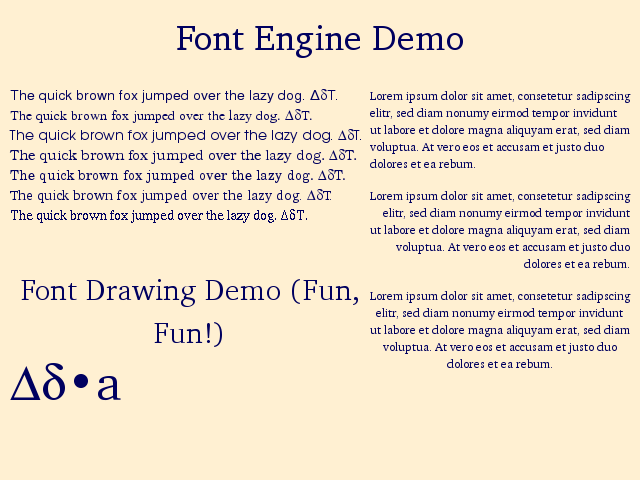
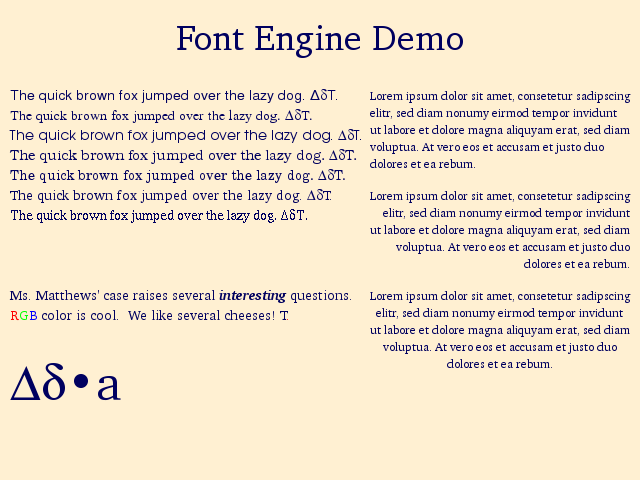
Updated graphic to demo multi-styled paragraphs.
git-svn-id: https://imlsrc.dartmouth.edu/svn/public/halyard/trunk@27203 b24aca02-f418-0410-9c49-835e4aa915c3

Changed region(s): [[0.0, 0.5625, 0.5625, 0.7188]]

diff --git a/Common/fonttools/pngtest.cpp b/Common/fonttools/pngtest.cpp
@@ -29,6 +29,19 @@ FamilyDatabase *gFonts;
 #define SYMBOL_FACE ("Standard Symbols L")
 #define DINGBAT_FACE ("Dingbats")
 
+void show_with_style_info(const wchar_t *inText,
+			  const StyleInformation &inStyleInfo,
+			  Point inPos, Distance inLength,
+			  Justification inJustification)
+{
+    // Draw our text.
+    size_t len = wcslen(inText);
+    StyledTextSpan span(StyledCharIterator(inText, inStyleInfo.begin()),
+			StyledCharIterator(inText + len, inStyleInfo.end()));
+    TextRenderingEngine engine(span, inPos, inLength, inJustification, gImage);
+    engine.RenderText();
+}
+
 void show(const wchar_t *inText, const Style &inStyle,
 	  Point inPos, Distance inLength, Justification inJustification)
 {
@@ -38,10 +51,7 @@ void show(const wchar_t *inText, const Style &inStyle,
     styleInfo.EndStyleAt(len);
 
     // Draw our text.
-    StyledTextSpan span(StyledCharIterator(inText, styleInfo.begin()),
-			StyledCharIterator(inText + len, styleInfo.end()));
-    TextRenderingEngine engine(span, inPos, inLength, inJustification, gImage);
-    engine.RenderText();
+    show_with_style_info(inText, styleInfo, inPos, inLength, inJustification);
 }
 
 int main (int argc, char **argv) {
@@ -87,8 +97,29 @@ int main (int argc, char **argv) {
 		 Point(10, 100 + fi * 20), 360, kLeftJustification);
 	}
 
-	show(L"Font Drawing Demo (Fun, Fun!)", Style(baseStyle).SetSize(30),
-	     Point(10, 300), 360, kCenterJustification);
+	// Do an elaborate, multi-styled paragraph.
+	const wchar_t *para = (L"Ms. Matthews' case raises several "
+			       "interesting questions.  RGB color is cool.  "
+			       "We like several cheeses! T.");
+	Style para_style(baseStyle);
+	para_style.SetSize(14);
+	Style bold_italic_para_style(para_style);
+	bold_italic_para_style.SetFaceStyle(kBoldItalicFaceStyle);
+	StyleInformation styleInfo(para_style);
+	styleInfo.ChangeStyleAt(34, bold_italic_para_style);
+	styleInfo.ChangeStyleAt(45, para_style);
+	styleInfo.ChangeStyleAt(58,
+				Style(para_style).SetColor(Color(255, 0, 0)));
+	styleInfo.ChangeStyleAt(59,
+				Style(para_style).SetColor(Color(0, 255, 0)));
+	styleInfo.ChangeStyleAt(60,
+				Style(para_style).SetColor(Color(0, 0, 255)));
+	styleInfo.ChangeStyleAt(61, para_style);
+	styleInfo.ChangeStyleAt(wcslen(para)-1,
+				Style(para_style).SetColor(Color(255, 0, 0)));
+	styleInfo.EndStyleAt(wcslen(para));
+	show_with_style_info(para, styleInfo, Point(10, 300), 360,
+			     kLeftJustification);
 
 	wchar_t symbols[5];
 	symbols[0] = 0x2206;
